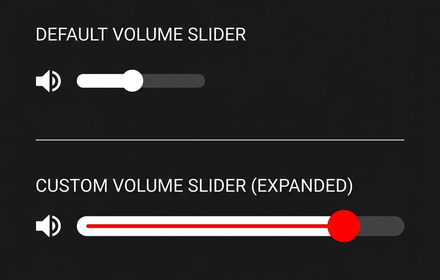
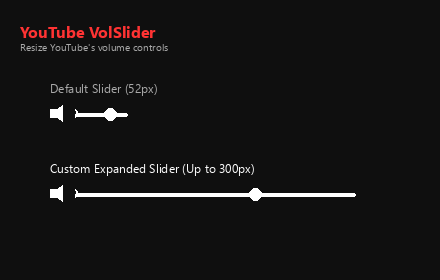
Draw promotional tiles programmatically to exactly match YouTube's style

diff --git a/draw_promo.py b/draw_promo.py
@@ -1,0 +1,155 @@
+import os
+from PIL import Image, ImageDraw, ImageFont
+
+# Font paths
+font_bold_path = r"C:\Windows\Fonts\segoeuib.ttf"
+font_reg_path = r"C:\Windows\Fonts\segoeui.ttf"
+
+# Target Directory
+extension_dir = r"C:\Users\Kapil\.gemini\antigravity\scratch\youtube-volume-bar-extension"
+promo_dir = os.path.join(extension_dir, "promo")
+
+def draw_speaker(draw, x, y, scale=1.0, color=(255, 255, 255)):
+    # Draw a clean speaker icon programmatically using polygons and lines
+    # Body
+    body_w = int(6 * scale)
+    body_h = int(8 * scale)
+    body_x = x
+    body_y = y + int(4 * scale)
+    draw.rectangle([body_x, body_y, body_x + body_w, body_y + body_h], fill=color)
+    
+    # Cone
+    cone_pts = [
+        (body_x + body_w, body_y),
+        (body_x + body_w + int(6 * scale), y),
+        (body_x + body_w + int(6 * scale), y + int(16 * scale)),
+        (body_x + body_w, body_y + body_h)
+    ]
+    draw.polygon(cone_pts, fill=color)
+    
+    # Sound wave arc
+    wave_x = body_x + body_w + int(9 * scale)
+    wave_y = y + int(2 * scale)
+    wave_w = int(12 * scale)
+    wave_h = int(12 * scale)
+    draw.arc([wave_x, wave_y, wave_x + wave_w, wave_y + wave_h], start=-45, end=45, fill=color, width=int(2 * scale))
+
+def generate_small_promo():
+    width, height = 440, 280
+    img = Image.new("RGB", (width, height), color=(15, 15, 15))  # YouTube dark mode background (#0f0f0f)
+    draw = ImageDraw.Draw(img)
+    
+    # Load fonts
+    try:
+        font_title = ImageFont.truetype(font_bold_path, 16)
+        font_label = ImageFont.truetype(font_reg_path, 12)
+        font_sub = ImageFont.truetype(font_reg_path, 10)
+    except IOError:
+        font_title = font_label = font_sub = ImageFont.load_default()
+
+    # Header
+    draw.text((20, 20), "YouTube VolSlider", font=font_title, fill=(255, 51, 51))  # Red accent
+    draw.text((20, 40), "Resize YouTube's volume controls", font=font_sub, fill=(170, 170, 170))
+    
+    # --- DEFAULT SLIDER ---
+    # Label
+    draw.text((50, 80), "Default Slider (52px)", font=font_label, fill=(170, 170, 170))
+    # Speaker
+    draw_speaker(draw, 50, 105, scale=1.0)
+    # Slider track (grey background)
+    track_y = 113
+    draw.rounded_rectangle([75, track_y, 75 + 52, track_y + 3], radius=1, fill=(255, 255, 255, 40))
+    # Slider fill (white)
+    draw.rounded_rectangle([75, track_y, 75 + 35, track_y + 3], radius=1, fill=(255, 255, 255))
+    # Slider handle (circle)
+    handle_x = 75 + 35
+    handle_r = 6
+    draw.ellipse([handle_x - handle_r, track_y + 1 - handle_r, handle_x + handle_r, track_y + 1 + handle_r], fill=(255, 255, 255))
+    
+    # --- EXPANDED SLIDER ---
+    # Label
+    draw.text((50, 160), "Custom Expanded Slider (Up to 300px)", font=font_label, fill=(255, 255, 255))
+    # Speaker
+    draw_speaker(draw, 50, 185, scale=1.0)
+    # Slider track (grey background)
+    track_y_exp = 193
+    draw.rounded_rectangle([75, track_y_exp, 75 + 280, track_y_exp + 3], radius=1, fill=(255, 255, 255, 40))
+    # Slider fill (white)
+    draw.rounded_rectangle([75, track_y_exp, 75 + 180, track_y_exp + 3], radius=1, fill=(255, 255, 255))
+    # Slider handle (circle)
+    handle_x_exp = 75 + 180
+    handle_r_exp = 6
+    draw.ellipse([handle_x_exp - handle_r_exp, track_y_exp + 1 - handle_r_exp, handle_x_exp + handle_r_exp, track_y_exp + 1 + handle_r_exp], fill=(255, 255, 255))
+    
+    dest_path = os.path.join(promo_dir, "small_promo.png")
+    img.save(dest_path, "PNG")
+    print(f"Programmatically generated small promo tile: {dest_path}")
+
+def generate_marquee_promo():
+    width, height = 1400, 560
+    img = Image.new("RGB", (width, height), color=(15, 15, 15))  # YouTube dark mode background
+    draw = ImageDraw.Draw(img)
+    
+    # Load fonts
+    try:
+        font_title = ImageFont.truetype(font_bold_path, 48)
+        font_subtitle = ImageFont.truetype(font_reg_path, 22)
+        font_label = ImageFont.truetype(font_bold_path, 20)
+        font_val = ImageFont.truetype(font_reg_path, 16)
+    except IOError:
+        font_title = font_subtitle = font_label = font_val = ImageFont.load_default()
+
+    # Header Title
+    draw.text((100, 70), "YouTube VolSlider", font=font_title, fill=(255, 51, 51))
+    draw.text((100, 135), "Tired of the volume bar being too small? Scale it to any width!", font=font_subtitle, fill=(170, 170, 170))
+    
+    # Draw horizontal divider
+    draw.line([100, 185, 1300, 185], fill=(255, 255, 255, 20), width=1)
+    
+    # --- DEFAULT SLIDER ---
+    # Label
+    draw.text((100, 230), "DEFAULT YOUTUBE SLIDER", font=font_label, fill=(130, 130, 130))
+    # Speaker
+    draw_speaker(draw, 100, 275, scale=2.0, color=(170, 170, 170))
+    # Slider track
+    track_y = 290
+    draw.rounded_rectangle([150, track_y, 150 + 52, track_y + 6], radius=3, fill=(255, 255, 255, 40))
+    # Slider fill
+    draw.rounded_rectangle([150, track_y, 150 + 35, track_y + 6], radius=3, fill=(255, 255, 255))
+    # Slider handle
+    handle_x = 150 + 35
+    handle_r = 10
+    draw.ellipse([handle_x - handle_r, track_y + 3 - handle_r, handle_x + handle_r, track_y + 3 + handle_r], fill=(255, 255, 255))
+    # Width Tag
+    draw.text((150 + 52 + 20, track_y - 8), "52px (Tiny & hard to target)", font=font_val, fill=(130, 130, 130))
+    
+    # --- EXPANDED SLIDER ---
+    # Label
+    draw.text((100, 380), "EXPANDED VOLUME SLIDER (CUSTOMIZABLE WIDTH)", font=font_label, fill=(255, 255, 255))
+    # Speaker
+    draw_speaker(draw, 100, 425, scale=2.0, color=(255, 255, 255))
+    # Slider track
+    track_y_exp = 440
+    slider_width = 800  # Stretched slider representation
+    draw.rounded_rectangle([150, track_y_exp, 150 + slider_width, track_y_exp + 6], radius=3, fill=(255, 255, 255, 40))
+    # Slider fill
+    draw.rounded_rectangle([150, track_y_exp, 150 + 550, track_y_exp + 6], radius=3, fill=(255, 255, 255))
+    # Slider handle
+    handle_x_exp = 150 + 550
+    handle_r_exp = 10
+    draw.ellipse([handle_x_exp - handle_r_exp, track_y_exp + 3 - handle_r_exp, handle_x_exp + handle_r_exp, track_y_exp + 3 + handle_r_exp], fill=(255, 255, 255))
+    # Width Tag
+    draw.text((150 + slider_width + 20, track_y_exp - 8), "Choose any width up to 300px!", font=font_val, fill=(255, 51, 51))
+    
+    dest_path = os.path.join(promo_dir, "marquee_promo.png")
+    img.save(dest_path, "PNG")
+    print(f"Programmatically generated marquee promo tile: {dest_path}")
+
+def main():
+    os.makedirs(promo_dir, exist_ok=True)
+    generate_small_promo()
+    generate_marquee_promo()
+    print("All promotional graphics drawn and saved successfully!")
+
+if __name__ == "__main__":
+    main()